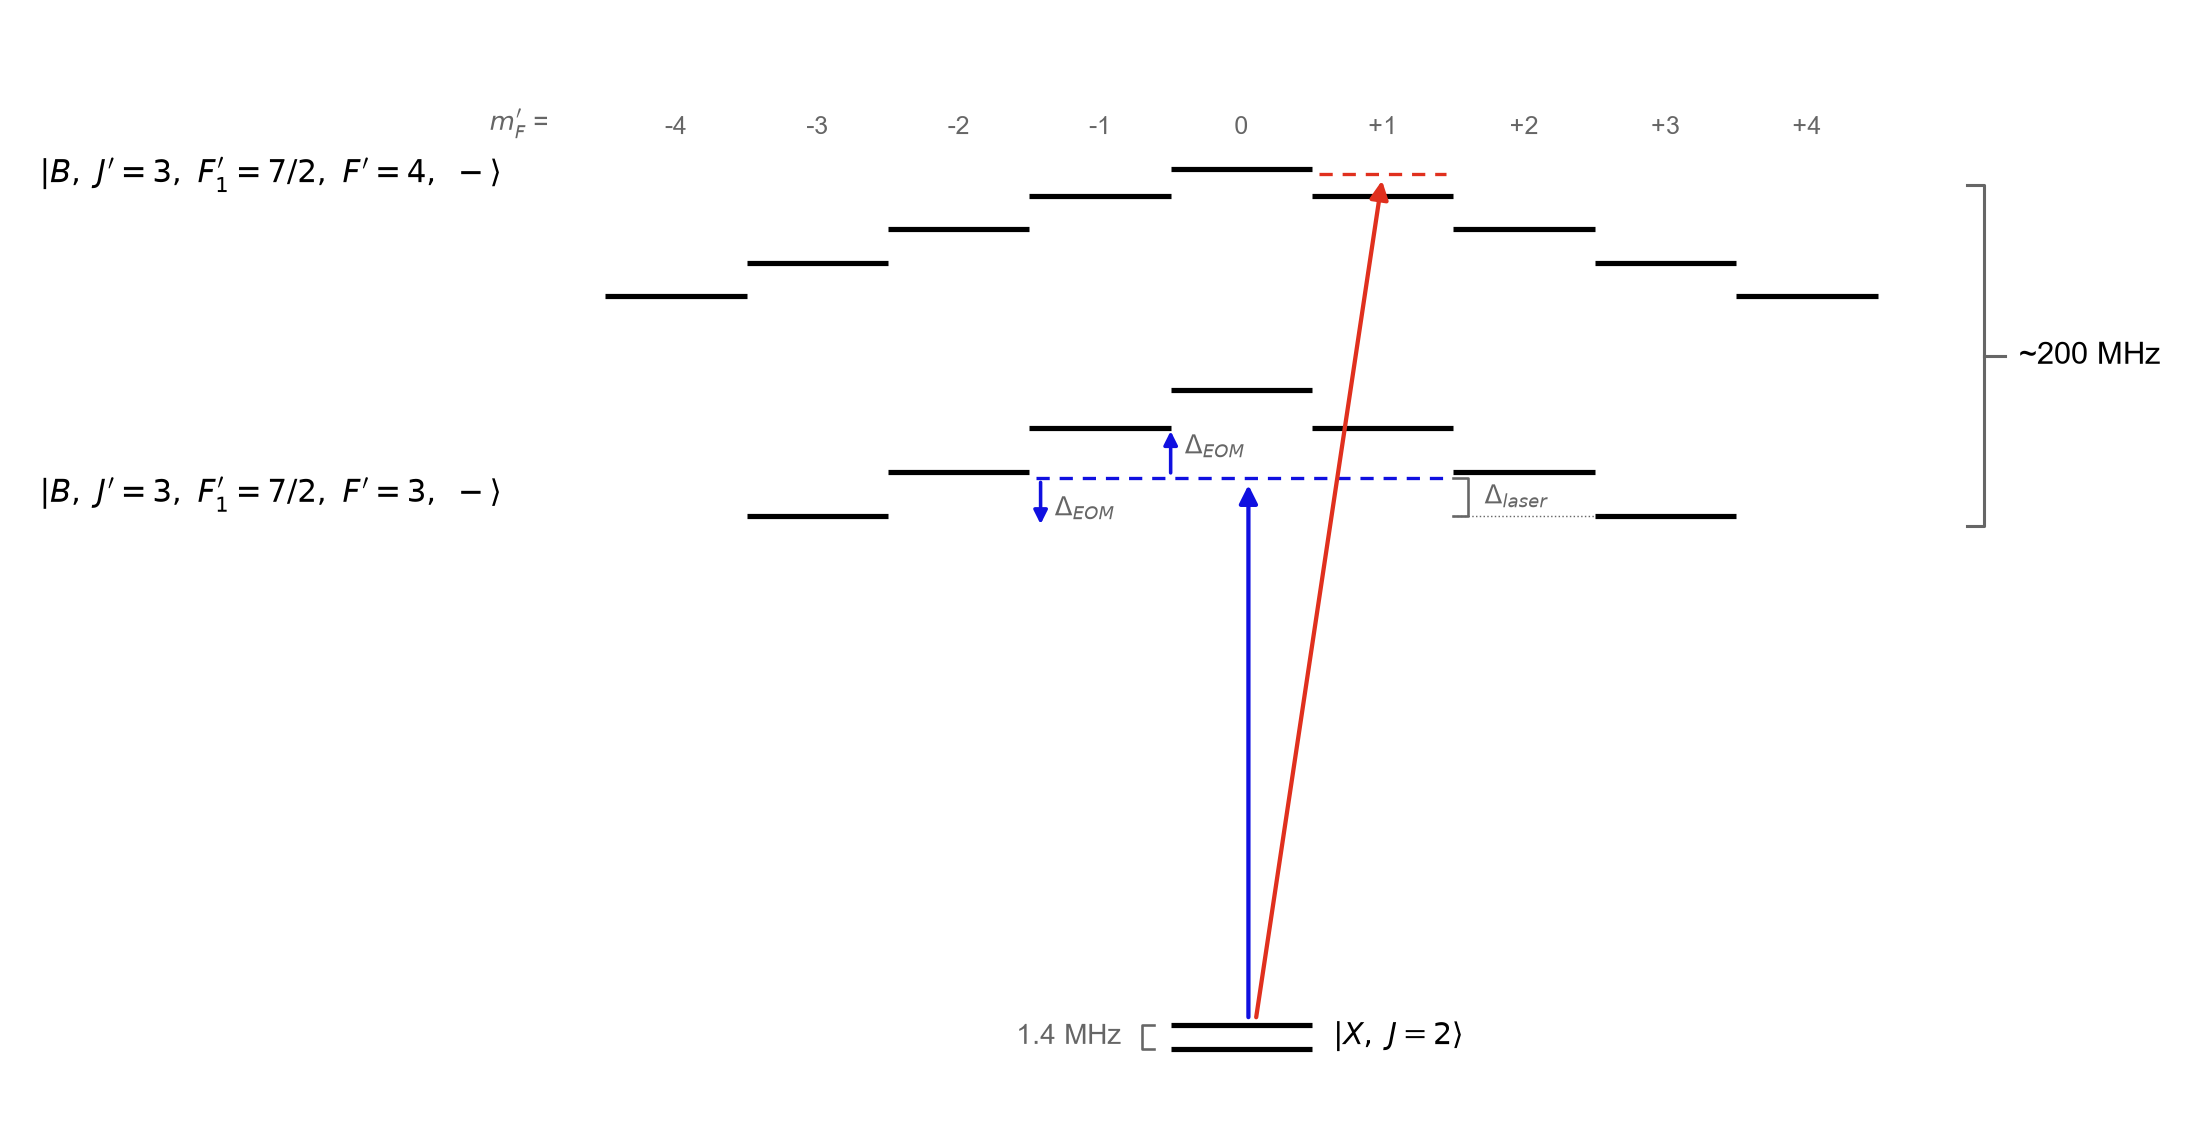
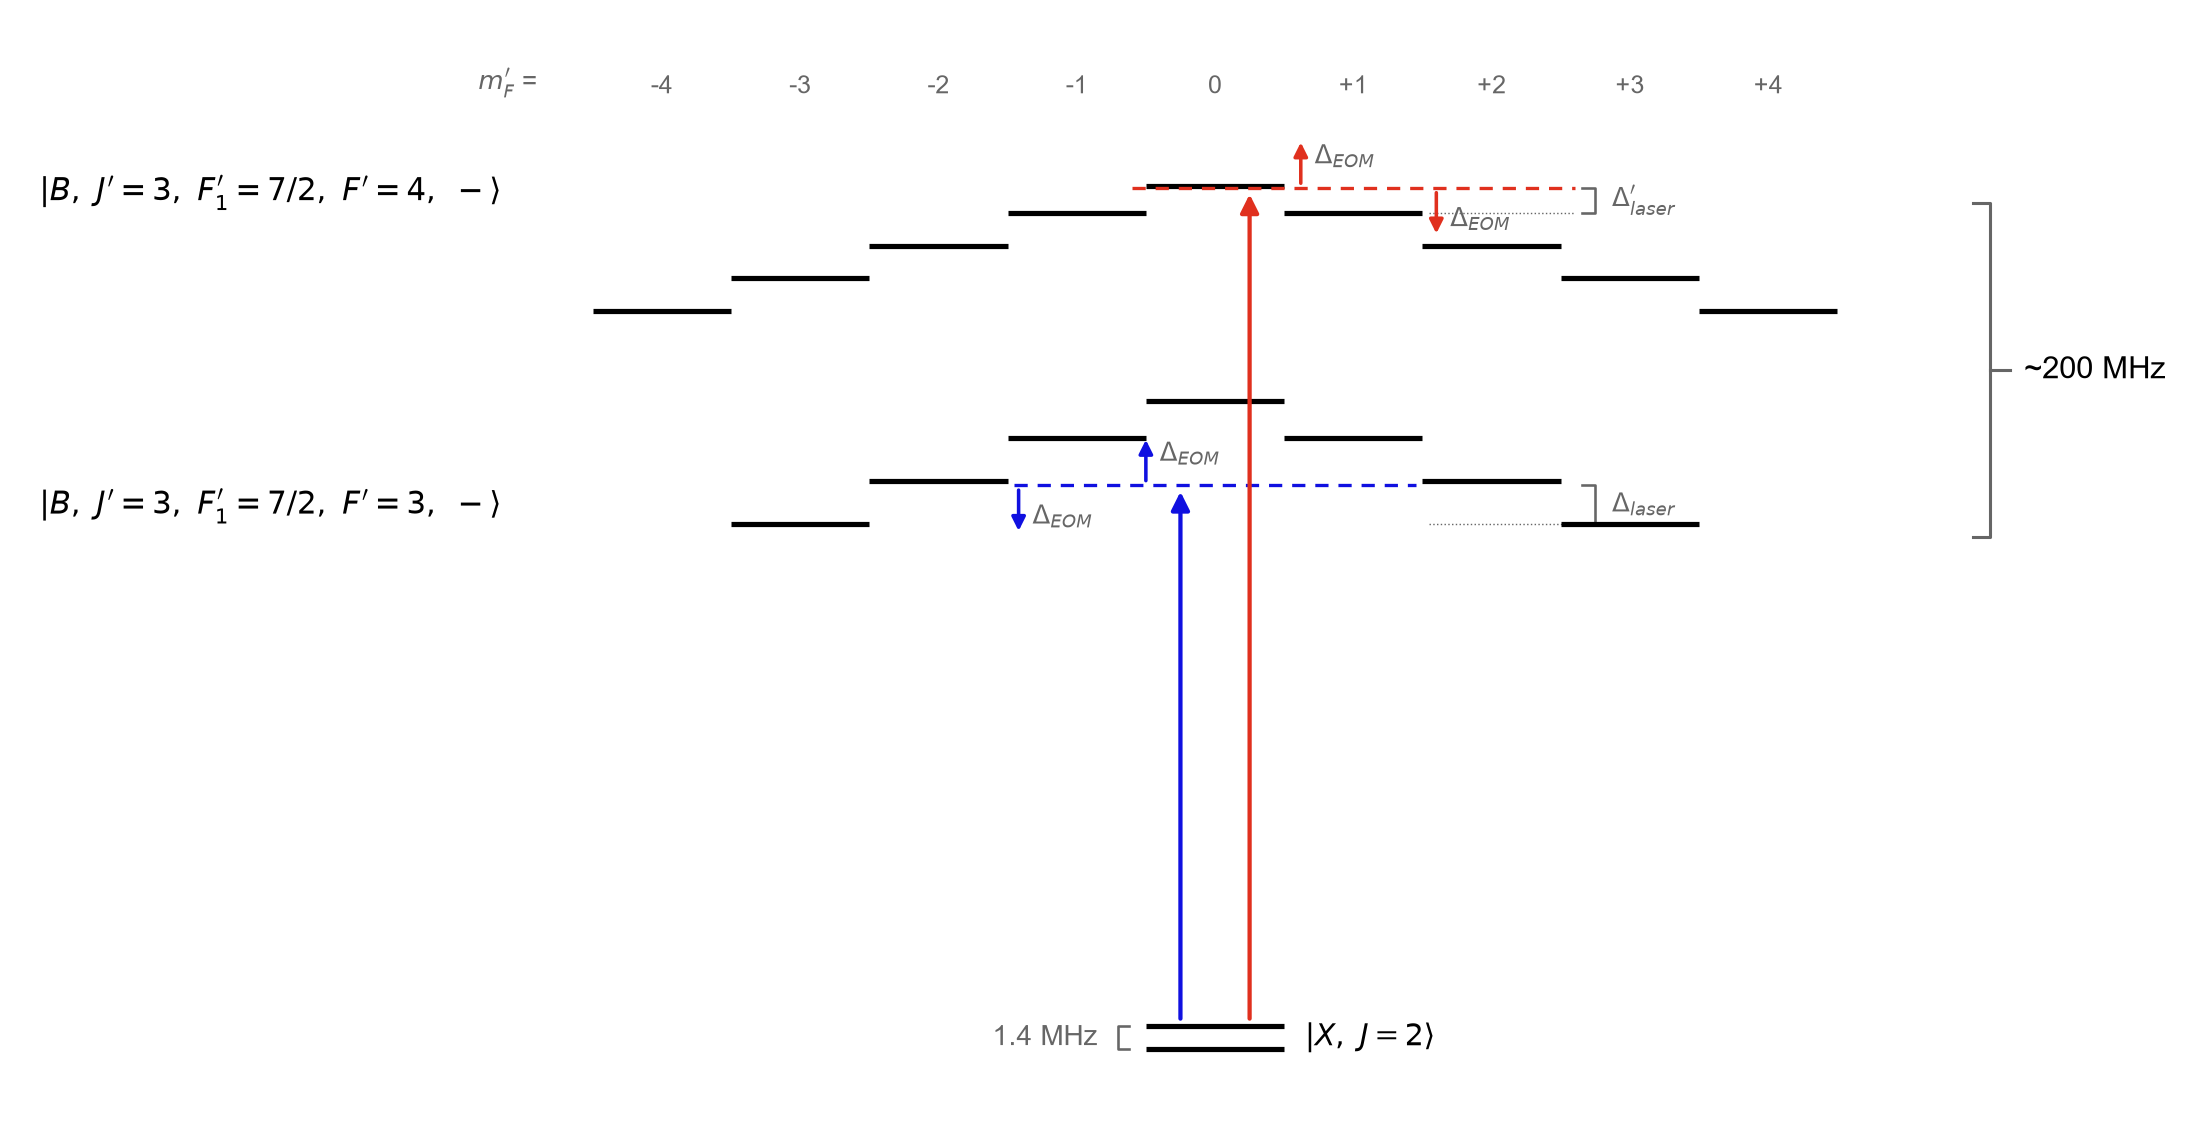
CU2 mF' sketch: simulation set point (14.5, 209) MHz, EOM sidebands on the F'=4 beam, carrier on mF'=0

diff --git a/scripts/plot_cu2_mF_sketch.py b/scripts/plot_cu2_mF_sketch.py
@@ -1,14 +1,20 @@
 """CU2 mF' level sketch at 217 V/cm in the style of the user's hand drawing (slides; not to scale).
 
-    python scripts/plot_cu2_mF_sketch.py
-    -> docs/state_cleanup/figures/slides/CU2_mF_sketch_217.{png,pdf}
+    python scripts/plot_cu2_mF_sketch.py [delta0 f_AOM]      # default: 217 V/cm simulation set point 14.5 209
+    -> docs/state_cleanup/figures/slides/CU2_mF_sketch_217.{png,pdf}        (set point)
+       docs/state_cleanup/figures/slides/CU2_mF_sketch_217_d13_f209.{...}  (other delta0 / f_AOM)
 
-Only the P'=- (laser-driven) branch of B J'=3 F1'=7/2 F'=3 and F'=4 is drawn, one bar per mF'. Within each
-manifold the bar heights follow the 217 V/cm transition frequencies of scripts/plot_cu2_mF_scheme.py (cached in
-tmp/cu2_mF_scheme_217/level_scheme.npz), compressed by U units per MHz; the F'=3 - F'=4 gap is drawn much
-smaller than to scale and labelled (~200 MHz; 214.6 MHz between the two main lines at 217 V/cm).
-F'=3 beam (blue): carrier Delta_laser = delta0 = 13 MHz above the F'=3 main line (mF'=+-3 bar), EOM sidebands
-+-Delta_EOM = 17.5 MHz (the +1 order lands on mF'=+-1). F'=4 beam (red): to mF'=+1, delta1 = +7.4 MHz.
+Only the P'=- branch of B J'=3 F1'=7/2 F'=3 and F'=4 is drawn, one bar per mF'. Within each manifold the bar
+heights are the 217 V/cm transition frequencies on each beam's own detuning axis (main resonance = 0) from
+scripts/plot_cu2_mF_scheme.py (cache tmp/cu2_mF_scheme_217/level_scheme.npz), compressed by U units per MHz; the
+F'=3 - F'=4 gap is drawn much smaller than to scale (~200 MHz; 214.6 MHz between the two main lines).
+Main pairs as in the CU2 simulation (scripts/cu2_laser_aom_scan.build): F'=3 beam X F=3 mF=2 -> F'=3 mF'=3,
+F'=4 beam X F=3 mF=0 -> F'=4 mF'=1.
+Blue (F'=3 beam): carrier Delta_laser = delta0 above its main line. Red (F'=4 beam, made with the AOM):
+carrier Delta'_laser = delta0 + f_AOM - Delta_main above its main line. Both beams carry EOM sidebands
++-Delta_EOM = 17.5 MHz (beta = 1.5).
+At the set point (14.5, 209) MHz: blue carrier on mF'=+-2, its +1 order on mF'=+-1; red Delta'_laser = 8.9 MHz,
+carrier on mF'=0 (9.6 MHz), its -1 order near mF'=+-2 (-11.2 MHz).
 Ground: the X J=2 sublevels at 217 V/cm form two clusters about 1.4 MHz apart (0-0.30 and 1.17-1.74 MHz).
 """
 import sys
@@ -26,26 +32,37 @@ plt.rcParams.update({"font.family": "sans-serif", "font.sans-serif": ["Arial", "
                      "mathtext.fontset": "dejavusans"})
 
 BLUE, RED, GREY = "#1010e0", "#e0301e", "0.4"
-D0, F_AOM, F_EOM = 13.0, 209.0, 17.5
+D0, F_AOM = (float(sys.argv[1]), float(sys.argv[2])) if len(sys.argv) > 2 else (14.5, 209.0)
+SFX = "" if (D0, F_AOM) == (14.5, 209.0) else f"_d{D0:g}_f{F_AOM:g}".replace(".", "p")
+F_EOM = 17.5
 U = 0.055                      # drawing units per MHz inside a manifold (compressed)
-Y3, Y4 = 10.0, 16.0            # F'=3 and F'=4 main lines (gap NOT to scale)
+Y3, Y4 = 10.0, 16.0            # F'=3 and F'=4 main resonances (gap NOT to scale)
 W = 1.0                        # bar width = one mF' column
 
 z = np.load(CACHE)
 rows, dmain = z["rows"], float(z["delta_main"])
 d1 = D0 + F_AOM - dmain
 pos = {k: {int(r[1]): r[3] for r in rows if r[0] == k and r[2] < 0} for k in (0, 1)}   # P' = - only
-y3 = {m: Y3 + U * (p - pos[0][3]) for m, p in pos[0].items()}     # F'=3 main line = mF'=+3 bar
-y4 = {m: Y4 + U * (p - pos[1][1]) for m, p in pos[1].items()}     # F'=4 main line = mF'=+1 bar
+y3 = {m: Y3 + U * p for m, p in pos[0].items()}
+y4 = {m: Y4 + U * p for m, p in pos[1].items()}
 
 fig, ax = plt.subplots(figsize=(13.0, 6.6))
-ax.set_xlim(-8.6, 6.4)
-ax.set_ylim(-0.9, 19.2)
+ax.set_xlim(-8.6, 6.6)
+ax.set_ylim(-0.9, 19.6)
 ax.axis("off")
 
 
 def bar(m, y, lw=2.2):
     ax.plot([m - W / 2, m + W / 2], [y, y], color="k", lw=lw, solid_capstyle="butt", zorder=3)
+
+
+def arrow(p0, p1, c, lw=1.5, ms=12):
+    ax.add_patch(FancyArrowPatch(p0, p1, arrowstyle="-|>", mutation_scale=ms, lw=lw, color=c, zorder=5))
+
+
+def bracket(x, ya, yb, label):
+    ax.plot([x - 0.1, x, x, x - 0.1], [ya, ya, yb, yb], color=GREY, lw=1.1)
+    ax.text(x + 0.12, (ya + yb) / 2, label, fontsize=11, color=GREY, va="center")
 
 
 for m, y in y3.items():
@@ -55,12 +72,12 @@ for m, y in y4.items():
 ax.text(-8.5, Y4 + 0.4, "$|B,\\ J'=3,\\ F_1'=7/2,\\ F'=4,\\ -\\rangle$", fontsize=13, va="center")
 ax.text(-8.5, Y3 + 0.4, "$|B,\\ J'=3,\\ F_1'=7/2,\\ F'=3,\\ -\\rangle$", fontsize=13, va="center")
 for m in range(-4, 5):
-    ax.text(m, max(y4.values()) + 0.55, f"{m:+d}" if m else "0", ha="center", va="bottom", fontsize=10.5,
+    ax.text(m, Y4 + U * (d1 + F_EOM) + 0.75, f"{m:+d}" if m else "0", ha="center", va="bottom", fontsize=10.5,
             color=GREY)
-ax.text(-4.9, max(y4.values()) + 0.55, "$m_F'$ =", ha="right", va="bottom", fontsize=11, color=GREY)
+ax.text(-4.9, Y4 + U * (d1 + F_EOM) + 0.75, "$m_F'$ =", ha="right", va="bottom", fontsize=11, color=GREY)
 
 # ~200 MHz brace between the two manifolds (gap drawn smaller than to scale)
-xb = 5.25
+xb = 5.6
 ax.plot([xb - 0.12, xb, xb, xb - 0.12], [Y4 + 0.2, Y4 + 0.2, Y3 - 0.2, Y3 - 0.2], color="0.4", lw=1.3)
 ax.plot([xb, xb + 0.15], [(Y3 + Y4) / 2] * 2, color="0.4", lw=1.3)
 ax.text(xb + 0.25, (Y3 + Y4) / 2, "~200 MHz", fontsize=13, va="center")
@@ -73,29 +90,31 @@ ax.plot([-0.62, -0.7, -0.7, -0.62], [G1, G1, G0, G0], color=GREY, lw=1.1)
 ax.text(-0.85, (G0 + G1) / 2, "1.4 MHz", fontsize=12, color=GREY, ha="right", va="center")
 ax.text(0.65, (G0 + G1) / 2, "$|X,\\ J=2\\rangle$", fontsize=12.5, ha="left", va="center")
 
-# F'=3 beam: carrier (dashed), EOM sidebands, detuning
+# F'=3 beam (blue): carrier, EOM sidebands, detuning from its main line (mF'=+3 bar)
 yc = Y3 + U * D0
-ax.add_patch(FancyArrowPatch((0.05, G1 + 0.05), (0.05, yc - 0.05), arrowstyle="-|>", mutation_scale=16,
-                             lw=1.8, color=BLUE, zorder=4))
+arrow((-0.25, G1 + 0.05), (-0.25, yc - 0.03), BLUE, lw=1.8, ms=16)
 ax.plot([-1.45, 1.45], [yc, yc], color=BLUE, lw=1.4, ls=(0, (4, 3)), zorder=4)
-ax.add_patch(FancyArrowPatch((-0.5, yc), (-0.5, yc + U * F_EOM), arrowstyle="-|>", mutation_scale=12, lw=1.5,
-                             color=BLUE, zorder=5))
-ax.add_patch(FancyArrowPatch((-1.42, yc), (-1.42, yc - U * F_EOM), arrowstyle="-|>", mutation_scale=12,
-                             lw=1.5, color=BLUE, zorder=5))
-ax.text(-0.4, yc + 0.5 * U * F_EOM + 0.1, "$\\Delta_{EOM}$", fontsize=11, color=GREY, va="center")
-ax.text(-1.32, yc - 0.5 * U * F_EOM - 0.1, "$\\Delta_{EOM}$", fontsize=11, color=GREY, va="center")
-xl = 1.6                                           # Delta_laser: carrier above the F'=3 main line (mF'=+3)
-ax.plot([xl - 0.1, xl, xl, xl - 0.1], [yc, yc, y3[3], y3[3]], color=GREY, lw=1.1)
-ax.text(xl + 0.12, (yc + y3[3]) / 2, "$\\Delta_{laser}$", fontsize=11, color=GREY, va="center")
-ax.plot([xl - 0.1, 2.5], [y3[3], y3[3]], color=GREY, lw=0.6, ls=":")
+arrow((-0.5, yc), (-0.5, yc + U * F_EOM), BLUE)
+arrow((-1.42, yc), (-1.42, yc - U * F_EOM), BLUE)
+ax.text(-0.4, yc + 0.5 * U * F_EOM + 0.12, "$\\Delta_{EOM}$", fontsize=11, color=GREY, va="center")
+ax.text(-1.32, yc - 0.5 * U * F_EOM - 0.12, "$\\Delta_{EOM}$", fontsize=11, color=GREY, va="center")
+ax.plot([1.55, 2.6], [y3[3]] * 2, color=GREY, lw=0.6, ls=":")
+bracket(2.75, yc, y3[3], "$\\Delta_{laser}$")
 
-# F'=4 beam (made from the F'=3 beam with the AOM)
+# F'=4 beam (red, made from the F'=3 beam with the AOM): carrier, EOM sidebands, detuning from mF'=+1 bar
 y4c = Y4 + U * d1
-ax.add_patch(FancyArrowPatch((0.1, G1 + 0.05), (1.0, y4c - 0.03), arrowstyle="-|>", mutation_scale=16,
-                             lw=1.8, color=RED, zorder=4))
-ax.plot([0.55, 1.45], [y4c, y4c], color=RED, lw=1.4, ls=(0, (4, 3)), zorder=4)
+arrow((0.25, G1 + 0.05), (0.25, y4c - 0.03), RED, lw=1.8, ms=16)
+ax.plot([-0.6, 2.6], [y4c, y4c], color=RED, lw=1.4, ls=(0, (4, 3)), zorder=4)
+arrow((0.62, y4c), (0.62, y4c + U * F_EOM), RED)
+arrow((1.6, y4c), (1.6, y4c - U * F_EOM), RED)
+ax.text(0.72, y4c + 0.5 * U * F_EOM + 0.12, "$\\Delta_{EOM}$", fontsize=11, color=GREY, va="center")
+ax.text(1.7, y4c - 0.5 * U * F_EOM - 0.12, "$\\Delta_{EOM}$", fontsize=11, color=GREY, va="center")
+ax.plot([1.55, 2.6], [y4[1]] * 2, color=GREY, lw=0.6, ls=":")
+bracket(2.75, y4c, y4[1], "$\\Delta_{laser}'$")
 
 fig.tight_layout()
 for ext in ("png", "pdf"):
-    fig.savefig(FIG / f"CU2_mF_sketch_217.{ext}", dpi=170)
-print(FIG / "CU2_mF_sketch_217.png", {m: round(v, 2) for m, v in y3.items()}, f"d1 = {d1:.2f}")
+    fig.savefig(FIG / f"CU2_mF_sketch_217{SFX}.{ext}", dpi=170)
+print(FIG / f"CU2_mF_sketch_217{SFX}.png", f"delta0 = {D0:g}, d1 = {d1:.2f} MHz")
+print("F'=3 bars", {m: round(p, 1) for m, p in sorted(pos[0].items())})
+print("F'=4 bars", {m: round(p, 1) for m, p in sorted(pos[1].items())})
